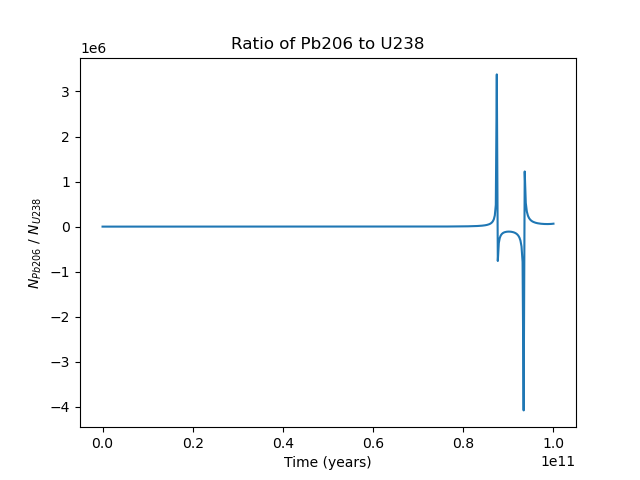
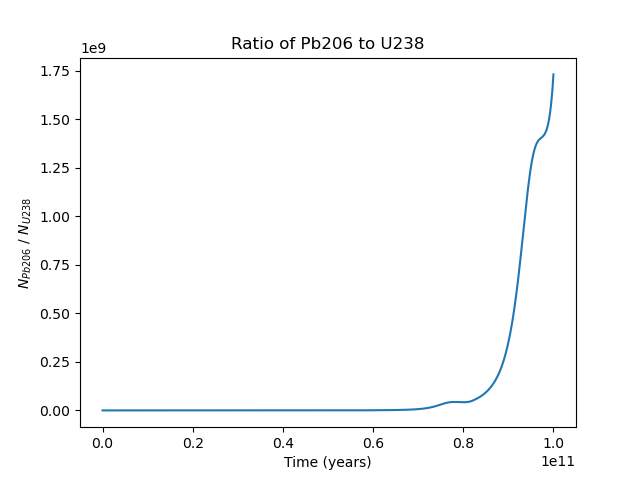
wip

diff --git a/problem_sets/ps3/ps3.py b/problem_sets/ps3/ps3.py
@@ -123,11 +123,20 @@ def ytrue(x):
     return c0 * np.exp(np.arctan(x))
 
 # f1 = plt.figure()
+# # plt.subplot(1,2,1)
 # plt.plot(x, ytrue(x), label = 'True Function')
 # plt.plot(x, ans_step, label = 'rk4_step, 200 steps')
 # plt.plot(x, ans_stepd, label = 'rk4_stepd, 200 steps')
 # plt.plot(x_new, ans_stepd_new, label = 'rk4_stepd, 73 steps')
 # plt.legend()
+# # plt.subplot(1,2,2)
+# # plt.plot(x, ytrue(x), label = 'True Function')
+# # plt.plot(x, ans_step, label = 'rk4_step, 200 steps')
+# # plt.plot(x, ans_stepd, label = 'rk4_stepd, 200 steps')
+# # plt.plot(x_new, ans_stepd_new, label = 'rk4_stepd, 73 steps')
+# # plt.xlim(1,2)
+# # plt.ylim(ytrue(x[np.where(x == 1)]) + 1, ytrue(x[np.where(x == 2)]) + 1)
+# # plt.legend()
 # plt.savefig("./A3Q1.png")
 
 print('-------------------------------')
@@ -162,13 +171,13 @@ def U238_products(half_lives, t, N0):
         
             dNdt_init = -N[i-1]/half_lives[i-1]
             dNdt_both = -N[i]/half_lives[i] + N[i-1]/half_lives[i-1]
-            dNdt_fin = N[i]/half_lives[i] # how to include this?
-        
+            dNdt_fin = N[i]/half_lives[i] 
+            
             dNdt[i-1] = dNdt_init + dNdt[i-1] # Update the previous product
                                               # to account for decays into
                                               # a new product
                                               
-            dNdt[i] = dNdt_both # need to figure out what to update
+            dNdt[i] = dNdt_both + dNdt_fin
         
         return dNdt
         
@@ -186,27 +195,26 @@ N0 = np.zeros(len(half_lives))
 N0[0] = 1
 N = U238_products(half_lives, t, N0)
 
-# for i in range(len(half_lives)):
-#     N.y[i] = abs(N.y[i])
-
 #-------------------------------
 # (b)
 
-# NEED TO FIX WHATEVER'S GOING ON HERE
+f2 = plt.figure()
+plt.plot(t, N.y[-1]/N.y[0]) # Plot ratio of Pb206/U238
+plt.xlabel('Time (years)')
+plt.ylabel('$N_{Pb206}$ / $N_{U238}$')
+plt.title('Ratio of Pb206 to U238')
+# plt.xscale('log')
+plt.savefig("./A3Q2_Pb206_U238_ratio.png")
 
-# f2 = plt.figure()
-# plt.plot(t, N.y[-1]/N.y[0]) # Plot ratio of Pb206/U238
-# plt.xlabel('Time (years)')
-# plt.ylabel('$N_{Pb206}$ / $N_{U238}$')
-# plt.title('Ratio of Pb206 to U238')
-# plt.savefig("./A3Q2_Pb206_U238_ratio.png")
+tc = 6000
 
-# f3 = plt.figure()
-# plt.plot(t, N.y[4]/N.y[3]) # Plot ratio of Th230/U234
-# plt.xlabel('Time (years)')
-# plt.ylabel('$N_{Th230}$ / $N_{U234}$')
-# plt.title('Ratio of Th230 to U234')
-# plt.savefig("./A3Q2_Th230_U234_ratio.png")
+f3 = plt.figure()
+plt.plot(t[:tc], N.y[4][:tc]/N.y[3][:tc]) # Plot ratio of Th230/U234
+plt.xlabel('Time (years)')
+plt.ylabel('$N_{Th230}$ / $N_{U234}$')
+plt.title('Ratio of Th230 to U234')
+# plt.xscale('log')
+plt.savefig("./A3Q2_Th230_U234_ratio.png")
 
 #-----------------------------------------------------------------------------
 # (Q3)
@@ -238,26 +246,41 @@ def dish_fit(data):
     nd = len(z) # n data
     nm = 4 # n model, i.e. a,b,c,d --> 4 parameters
     
+    # Make A:
+    
     A = np.zeros((nd, nm))
     A[:, 0] = x**2 + y**2
     A[:, 1] = x
     A[:, 2] = y
     A[:, 3] = np.ones(nd)
+                
+    #-------------------------------
+    # Solve for m the simple way:
+        
+    # m = np.linalg.pinv(A.T @ A) @ A.T @ z # a,b,c,d
     
-    # N = np.eye(nd)*(0.01)**2 # temporary
+    # Or to make it a little more robust, the SVD way:
+        
+    U, S, V = np.linalg.svd(A, 0) # Note that Python does SVD as A = USV!
+    m = V.T @ np.diag(1/S) @ U.T @ z # a, b, c, d
     
-    # Ninv = np.linalg.pinv(N)
+    # Note that in both methods above, we have assumed N = I.
     
-    m = np.linalg.pinv(A.T @ A) @ A.T @ z # a, b, c, d
+    #-------------------------------
+    # Now we make an assumption for sigma, and use this to construct N.
+    # From this, we can calculate the covariance matrix, and take the 
+    # square root of the diagonal values to get our errors on m.
     
-    # Ninv = 1
-    
-    # m_errs = np.sqrt(np.diag(np.linalg.pinv(A.T @ Ninv @ A)))
-    
-    return m# , m_errs
+    z_new = m[0]*(x**2 + y**2) + m[1]*x + m[2]*y + m[3]
+    sigma = np.std(z - z_new)
+    Ninv = np.eye(nd) * (1/sigma)
+    cov_mat = np.linalg.pinv(A.T @ Ninv @ A)
+    m_errs = np.sqrt(np.diag(cov_mat))
+    #-------------------------------
+        
+    return z_new, m, m_errs
 
-m = dish_fit(data)
-z_new = m[0]*(x**2 + y**2) + m[1]*x + m[2]*y + m[3]
+z_new, m, m_errs = dish_fit(data)
 print('-------------------------------')
 print('(3)')
 print(f'Best fit for a is {m[0]}, for b is {m[1]},\n for c is {m[2]}, and for d is {m[3]}.')
